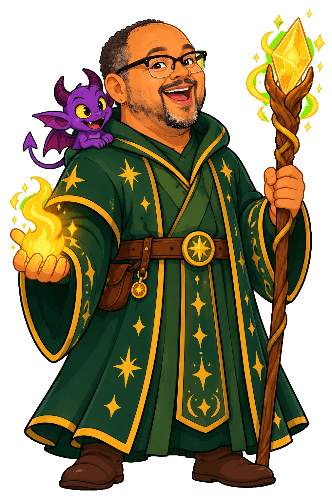
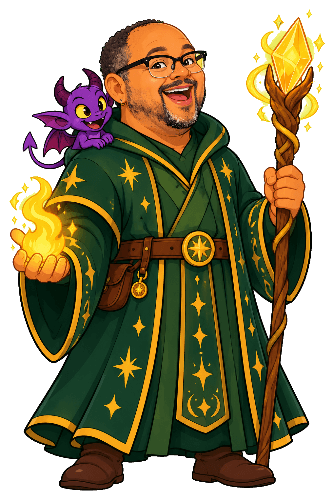
Art (item 049): light-green-only keying for Jason's green forms (LIGHT_GREEN, keyMode); his three good forms re-cut
keyGreen takes a mode: 'lightGreen' un-mixes green leans by brightness (none under 120,
full from 170), so the whisk streaks and the warlock's lime halo go and his forest
green stays solid. art:gen, --reprocess, art:alts and art:pick all cut by keyMode(id).

diff --git a/content/art/prompts.ts b/content/art/prompts.ts
@@ -48,6 +48,18 @@ const FIGHT_PROPS = FIGHTS.flatMap((f) => (f.props ?? []).map((p) => fightPropAr
 // Item 040's words: none is green.
 const BANK_040 = ['vet', 'chest', 'bin', 'rock', 'clock', 'stick', 'brush', 'truck', 'bath', 'plant', 'crib', 'key', 'yoyo'].map((w) => `pic_${w}`);
 const BANK_037 = ['jam', 'yak', 'vat', 'leg', 'peg', 'wig', 'bib', 'six', 'fin', 'kit', 'lip', 'cog', 'rod', 'gum', 'bun', 'hut', 'sub', 'nap', 'wag', 'jab', 'red', 'hex', 'jig', 'mix', 'jog', 'bop', 'dot', 'hum', 'yum', 'drum', 'crab', 'flag', 'sled', 'nest', 'tent', 'desk', 'belt', 'vest', 'gift', 'lamp', 'hand', 'mask', 'raft', 'plug', 'ant', 'milk', 'jump', 'spin', 'swim', 'flip', 'stomp', 'slam', 'grab', 'clap', 'bump', 'skip', 'twist', 'melt', 'lift', 'plop', 'flop', 'trap', 'blast', 'drip', 'ship', 'fish', 'duck', 'sock', 'moth', 'shed', 'chick', 'chop', 'kick', 'rush'].map((w) => `pic_${w}`);
+/**
+ * Sprites in dark green of their own (item 049): keying takes out only the
+ * bright, light screen green caught in them (between whisk wires, a lime glow)
+ * and leaves the dark green. Dada Jason's good forms and face cards.
+ */
+export const LIGHT_GREEN = new Set(GREEN_JASON);
+
+/** How `keyGreen` cuts an id, for `art:gen`, `art:alts` and `art:pick` alike. */
+export function keyMode(id: string): 'keep' | 'noGreen' | 'lightGreen' {
+  return NO_GREEN.has(id) ? 'noGreen' : LIGHT_GREEN.has(id) ? 'lightGreen' : 'keep';
+}
+
 export const NO_GREEN = new Set([...BANK_037, ...BANK_040,...FAMILY_ART, ...TIAMAT_ART, ...ITEM_025, 'char_julia_chef', 'face_julia_chef', 'prop_silver_sword', ...GLOWING_ITEMS,'item_bubble_bath', 'item_cleanup_van', 'char_rilla_evil', 'char_rilla_good', 'char_elsa_good', 'pic_mice', 'pic_net', 'prop_magic_circle', 'prop_ice_block', 'prop_word_machine', 'prop_machine_tile', ...ENDING_PROPS, ...SCAR_ART, ...FIGHT_PROPS]);
 
 /**
@@ -160,22 +172,22 @@ export const PICK_NOTES: Record<string, string> = {
   ...pickedBy032(),
   // Item 043: Matt's 040 pick, and the cyber Dada Matt redesign (brief 041_cyber_gauntlet_engineer).
   pic_key: "New word KEY (item 043, a long-vowel word for K: level 1, the hint sounds K then long E since item 048; rooms, warm-up, battle item). `current` is candidate 1, promoted by item 043: the boldest teeth; all three are nearly the same gold key. `0` is the painted placeholder.",
-  pic_yoyo: "New word YOYO (item 043, a long-vowel word for Y, printed YOYO: level 1, the hint sounds Y, long O, twice since item 048; rooms, warm-up, battle item). `current` is candidate 1, promoted by item 043: the biggest yo-yo, its string clearest. `0` is the painted placeholder. Watch: kept apart from TOP (both spinning toys).",
+  pic_yoyo: "New word YOYO (item 043, a long-vowel word for Y, printed YOYO: level 1, the hint sounds Y, long O, twice since item 048; rooms, warm-up, battle item). `current` is candidate 3, Matt's pick (item 049). 1 was item 043's: the biggest yo-yo, its string clearest. `0` is the painted placeholder. Watch: kept apart from TOP (both spinning toys).",
   pic_chest: "Item 040's word CHEST. `current` is candidate 3, Matt's pick (item 043). `0` is the painted placeholder.",
   char_dada_matt_cyber_good: "Cyber Dada Matt redrawn as a gauntlet engineer (item 041's brief round). `current` is candidate 10, Matt's pick (item 043, brief 041_cyber_gauntlet_engineer): the cyan power gauntlet projecting hologram tools, goggles up. 1 to 3 are item 025's hacker design; `0` is the painted placeholder.",
   char_dada_matt_cyber_evil: "Evil cyber Dada Matt in the same gauntlet-engineer look (item 043): the same build and gauntlet, glowing red. `current` is candidate 5, promoted by item 043: red gauntlet and hologram tools, goggles up, no green (4 has a teal shirt). 1 to 3 are item 025's hacker design (2 was Matt's item 032 pick); `0` is the painted placeholder.",
   // Item 046: Matt's picks from item 044's palette round (art_alts_045_palettes) and item 043's round (art_alts_044); each brief is now the look.
-  char_dada_jason_good: "Chef Dada Jason in forest green (item 044's palette round). `current` is candidate 2, Matt's pick (item 046, brief 045_jason_chef_trim): white chef's whites trimmed in forest green. 1 is the forest-green jacket; `0` is the red-neckerchief chef. Cut with green allowed (out of `NO_GREEN`).",
-  char_dada_jason_warrior_good: "Warrior Dada Jason in forest green (item 044's palette round). `current` is candidate 5, Matt's pick (item 046, brief 045_jason_warrior_trim): silver plate over a forest-green tunic, a green cape. 4 is forest-green armour; 3 was Matt's item 032 pick (red cape); `0` is the painted placeholder. Cut with green allowed (out of `NO_GREEN`).",
-  char_dada_jason_warlock_good: "Warlock Dada Jason in forest green (item 044's palette round). `current` is candidate 4, Matt's pick (item 046, brief 045_jason_warlock_green): forest-green robes, gold stars, an amber crystal and golden flames. 5 is purple robes with green trim; 1 was Matt's item 032 pick (purple); `0` is the painted placeholder. Cut with green allowed (out of `NO_GREEN`).",
+  char_dada_jason_good: "Chef Dada Jason in forest green (item 044's palette round). `current` is candidate 2, Matt's pick (item 046, brief 045_jason_chef_trim): white chef's whites trimmed in forest green. 1 is the forest-green jacket; `0` is the red-neckerchief chef. Cut light-green-only (`LIGHT_GREEN`, item 049).",
+  char_dada_jason_warrior_good: "Warrior Dada Jason in forest green (item 044's palette round). `current` is candidate 5, Matt's pick (item 046, brief 045_jason_warrior_trim): silver plate over a forest-green tunic, a green cape. 4 is forest-green armour; 3 was Matt's item 032 pick (red cape); `0` is the painted placeholder. Cut light-green-only (`LIGHT_GREEN`, item 049).",
+  char_dada_jason_warlock_good: "Warlock Dada Jason in forest green (item 044's palette round). `current` is candidate 4, Matt's pick (item 046, brief 045_jason_warlock_green): forest-green robes, gold stars, an amber crystal and golden flames. 5 is purple robes with green trim; 1 was Matt's item 032 pick (purple); `0` is the painted placeholder. Cut light-green-only (`LIGHT_GREEN`, item 049).",
   char_dada_matt_good: "Builder Dada Matt in blue (item 044's palette round). `current` is candidate 4, Matt's pick (item 046, brief 045_matt_builder_blue): deep-blue-and-steel armour. 5 is steel with blue trim; `0` (the orange armour it replaced) and 1 to 3 are the orange design.",
   char_dada_matt_lifter_good: "Weightlifter Dada Matt in blue (item 044's palette round). `current` is candidate 7, Matt's pick (item 046, brief 045_matt_lifter_blue): a royal-blue tee with a gold star, blue sneakers. 8 is a white tee with blue bands; 5 was Matt's item 032 pick (red tee); 1 to 3 are item 025's barbell design; `0` is the painted placeholder.",
   char_dada_jason_evil: "Evil chef Dada Jason redrawn without the moustache (item 043's round). `current` is candidate 1, Matt's pick (item 046, brief 044_evilchef_ladle): black-and-purple chef, a ladle of glowing purple sauce, his own goatee. 2 to 10 are the other props (whisk, rolling pin, cupcakes, cauldron); `0` is the moustached chef it replaced.",
   face_dada_matt_cyber: "Cyber Dada Matt's face card in the gauntlet-engineer look (item 043's round). `current` is candidate 4, Matt's pick (item 046, brief 044_cyberface_wrench, now its HAND prompt): the gauntlet raised with a hologram wrench, goggles up. 1 to 3 are item 025's hacker design.",
   // Item 046's face round (art_alts_046_faces): the five recoloured forms' cards redrawn from their new looks.
-  face_dada_jason: "Chef Dada Jason's face card in forest-green trim (item 046). `current` is candidate 2, promoted by item 046: the whisk away from his face (1 shows screen through a lens). `0` is the red-neckerchief card. Cut with green allowed (out of `NO_GREEN`).",
-  face_dada_jason_warrior: "Warrior Dada Jason's face card, silver over forest green (item 046). `current` is candidate 4, promoted by item 046: the most green tunic under the plate, like the full body (5's lens hangs over the screen). 2 is item 025's red-cape card; `0` is the painted placeholder. Cut with green allowed (out of `NO_GREEN`).",
-  face_dada_jason_warlock: "Warlock Dada Jason's face card in forest-green robes (item 046). `current` is candidate 5, promoted by item 046: the staff on his right as in the full body, the flame over his robe rather than the screen. 4 is as good; 2 is item 025's purple card; `0` is the painted placeholder. Cut with green allowed (out of `NO_GREEN`).",
+  face_dada_jason: "Chef Dada Jason's face card in forest-green trim (item 046). `current` is candidate 1, Matt's pick (item 049); the light-green keying clears the screen 046 saw through its lens. 2 was item 046's: the whisk away from his face. `0` is the red-neckerchief card. Cut light-green-only (`LIGHT_GREEN`, item 049).",
+  face_dada_jason_warrior: "Warrior Dada Jason's face card, silver over forest green (item 046). `current` is candidate 5, Matt's pick (item 049); its lens over the screen keys clear with the light-green keying. 4 was item 046's: the most green tunic under the plate, like the full body. 2 is item 025's red-cape card; `0` is the painted placeholder. Cut light-green-only (`LIGHT_GREEN`, item 049).",
+  face_dada_jason_warlock: "Warlock Dada Jason's face card in forest-green robes (item 046). `current` is candidate 5, promoted by item 046 and Matt's pick (item 049): the staff on his right as in the full body, the flame over his robe rather than the screen. 4 is as good; 2 is item 025's purple card; `0` is the painted placeholder. Cut light-green-only (`LIGHT_GREEN`, item 049).",
   face_dada_matt: "Builder Dada Matt's face card in blue armour (item 046). `current` is candidate 4, promoted by item 046: the grey hammer with gold studs, as in the full body. 1 to 3 are the orange design.",
   face_dada_matt_lifter: "Weightlifter Dada Matt's face card in the royal-blue tee (item 046). `current` is candidate 7, promoted by item 046: the gold star centred, as in the full body. 6 was Matt's item 032/034 pick (red tee); 1 to 3 are item 025's design; `0` is the painted placeholder.",
   // Item 037: the word bank's new words (picked by a review pass; Matt's picker is art_alts_037_words).

diff --git a/tools/art/generate.ts b/tools/art/generate.ts
@@ -31,7 +31,7 @@ import { chromium, type Page } from '@playwright/test';
 import sharp from 'sharp';
 
 import { ART_BY_ID } from '../../content/art/assets.js';
-import { ART_PROMPTS, BACKGROUND_STYLE, NO_GREEN, NOTES, REFS, SPRITE_STYLE, refFor } from '../../content/art/prompts.js';
+import { ART_PROMPTS, BACKGROUND_STYLE, keyMode, NOTES, REFS, SPRITE_STYLE, refFor } from '../../content/art/prompts.js';
 import { isMain } from '../voice/clips.js';
 import { keyGreen } from './chroma.js';
 import { isPlaceholder } from './placeholders.js';
@@ -194,9 +194,9 @@ export interface Processed {
   fringe: number;
 }
 
-export async function processImage(page: Page, png: Buffer, opts: { sprite: boolean; boxW: number; boxH: number; noGreen: boolean }): Promise<Processed> {
+export async function processImage(page: Page, png: Buffer, opts: { sprite: boolean; boxW: number; boxH: number; mode: 'keep' | 'noGreen' | 'lightGreen' }): Promise<Processed> {
   return page.evaluate(
-    async ({ src, sprite, boxW, boxH, noGreen }) => {
+    async ({ src, sprite, boxW, boxH, mode }) => {
       const img = new Image();
       img.src = src;
       await img.decode();
@@ -213,7 +213,7 @@ export async function processImage(page: Page, png: Buffer, opts: { sprite: bool
       let fringe = 0;
       if (sprite) {
         const data = fc.getImageData(0, 0, sw, sh);
-        fringe = (window as unknown as { keyGreen: (p: Uint8ClampedArray, w: number, h: number, ng: boolean) => { fringe: number } }).keyGreen(data.data, sw, sh, noGreen).fringe;
+        fringe = (window as unknown as { keyGreen: (p: Uint8ClampedArray, w: number, h: number, m: string) => { fringe: number } }).keyGreen(data.data, sw, sh, mode).fringe;
         fc.putImageData(data, 0, 0);
         let x0 = sw;
         let y0 = sh;
@@ -297,7 +297,7 @@ export async function gamePng(page: Page, id: string, original: Buffer): Promise
   const a = ART_BY_ID[id]!;
   const sprite = !isBackground(id);
   const scale = sprite ? SPRITE_SCALE : 1;
-  const p = await processImage(page, original, { sprite, boxW: a.w * scale, boxH: a.h * scale, noGreen: NO_GREEN.has(id) });
+  const p = await processImage(page, original, { sprite, boxW: a.w * scale, boxH: a.h * scale, mode: keyMode(id) });
   return { png: await shrinkPng(Buffer.from(p.url.slice(p.url.indexOf(',') + 1), 'base64')), p };
 }
 

diff --git a/tools/art/chroma.ts b/tools/art/chroma.ts
@@ -10,11 +10,14 @@
  * Pixels within two rings of the background get a soft alpha from their
  * distance to the key, are un-mixed from it, and lose any green spill.
  * `noGreen` (a subject with no green in it) un-mixes every green-leaning pixel.
+ * `lightGreen` (a subject in dark green, item 049) un-mixes only the bright,
+ * light greens of the screen showing through (between whisk wires, a lime glow),
+ * by how bright they are, and leaves dark greens alone.
  *
  * Returns `fringe`: visible pixels touching transparency that are still
  * clearly green, plus visible near-key pixels. 0 is clean.
  */
-export function keyGreen(px: Uint8ClampedArray, w: number, h: number, noGreen = false): { fringe: number; cleared: number } {
+export function keyGreen(px: Uint8ClampedArray, w: number, h: number, mode: 'keep' | 'noGreen' | 'lightGreen' = 'keep'): { fringe: number; cleared: number } {
   const n = w * h;
   const rs: number[] = [];
   const gs: number[] = [];
@@ -116,14 +119,21 @@ export function keyGreen(px: Uint8ClampedArray, w: number, h: number, noGreen = 
 
   // A subject with no green of its own: every green lean is screen showing
   // through (a cage's faint back bars), so un-mix it by how much it leans.
-  if (noGreen) {
+  // A subject in dark green: only a light green is screen, weighted from none
+  // at green LIGHT_LO to full at LIGHT_HI, so his forest green stays solid.
+  if (mode !== 'keep') {
     const keyLean = kg - Math.max(kr, kb);
+    // Measured on Jason's six images: his greens are under 120, screen leaks 160 up.
+    const LIGHT_LO = 120;
+    const LIGHT_HI = 170;
     for (let i = 0; i < n; i++) {
       const o = i * 4;
       if (!px[o + 3]) continue;
       const lean = px[o + 1]! - Math.max(px[o]!, px[o + 2]!);
       if (lean <= 0) continue;
-      const f = Math.min(1, lean / keyLean);
+      const light = mode === 'lightGreen' ? Math.max(0, Math.min(1, (px[o + 1]! - LIGHT_LO) / (LIGHT_HI - LIGHT_LO))) : 1;
+      if (!light) continue;
+      const f = Math.min(1, lean / keyLean) * light;
       if (f > 0.95) {
         px[o + 3] = 0;
         continue;

diff --git a/tests/unit/art.test.ts b/tests/unit/art.test.ts
@@ -5,7 +5,7 @@ import path from 'node:path';
 import { test } from 'node:test';
 
 import { ART_BY_ID } from '../../content/art/assets.js';
-import { ART_PROMPTS, NOTES, SPRITE_STYLE } from '../../content/art/prompts.js';
+import { ART_PROMPTS, keyMode, NOTES, SPRITE_STYLE } from '../../content/art/prompts.js';
 import { readBrief } from '../../tools/art/alts.js';
 import { keyGreen } from '../../tools/art/chroma.js';
 import { codexPrompt } from '../../tools/art/generate.js';
@@ -73,10 +73,30 @@ test('keyGreen keeps green inside the outline (a leaf is not the screen)', () =>
 
 test('keyGreen with noGreen un-mixes green seen through a subject', () => {
   const px = picture(20, 20, [100, 180, 100]);
-  keyGreen(px, 20, 20, true);
+  keyGreen(px, 20, 20, 'noGreen');
   const o = (10 * 20 + 10) * 4;
   assert.ok(px[o + 1]! <= Math.max(px[o]!, px[o + 2]!), 'no green lean left');
   assert.ok(px[o + 3]! < 255, 'part-transparent where the screen showed through');
+});
+
+test('keyGreen with lightGreen keeps dark green and un-mixes light screen green (item 049)', () => {
+  const dark = picture(20, 20, [22, 79, 49]);
+  keyGreen(dark, 20, 20, 'lightGreen');
+  const o = (10 * 20 + 10) * 4;
+  assert.deepEqual([...dark.subarray(o, o + 4)], [22, 79, 49, 255], 'forest green stays solid');
+  const light = picture(20, 20, [150, 230, 120]);
+  keyGreen(light, 20, 20, 'lightGreen');
+  assert.ok(light[o + 1]! <= Math.max(light[o]!, light[o + 2]!), 'no green lean left');
+  assert.ok(light[o + 3]! < 255, 'part-transparent where the screen showed through');
+});
+
+test("Jason's green forms cut light-green-only, for art:gen, art:alts and art:pick alike (item 049)", () => {
+  for (const c of ['dada_jason', 'dada_jason_warrior', 'dada_jason_warlock']) {
+    assert.equal(keyMode(`char_${c}_good`), 'lightGreen');
+    assert.equal(keyMode(`face_${c}`), 'lightGreen');
+    assert.equal(keyMode(`char_${c}_evil`), 'noGreen');
+  }
+  assert.equal(keyMode('pic_frog'), 'keep');
 });
 
 test('keyGreen removes green spill from a soft edge', () => {

diff --git a/README.md b/README.md
@@ -603,9 +603,17 @@ git-ignored, so a round may run as a **readonly** item beside other work. Promot
   046 carved Jason's three good forms and their face cards out (`GREEN_JASON`); his evil
   forms stay keyed. A green candidate must be out of the set before `art:pick` and
   before `art:alts` cuts the sheet (item 044's per-run sheets
-  `scratch/art_alts_045_palettes_jason_*.png` still show the washed-out cut). Without
-  the keying, light green screen caught inside the subject stays (between whisk wires,
-  in a glow): item 046's chef and warlock carry a little of it.
+  `scratch/art_alts_045_palettes_jason_*.png` still show the washed-out cut). Item 049
+  keys them light-green-only instead (`LIGHT_GREEN`, `keyMode` in
+  `content/art/prompts.ts`, `'lightGreen'` in `tools/art/chroma.ts`): green-leaning
+  pixels are un-mixed by how bright their green is, none under 120 and fully from 170,
+  so the screen between whisk wires and a lime glow go while his forest green (measured
+  under 120) stays solid. `art:gen`, `--reprocess`, `art:alts` and `art:pick` all take
+  the mode from `keyMode`. A family form that wears dark green goes in `LIGHT_GREEN`,
+  not `NO_GREEN`.
+- A script in `scratch/` that imports `../tools/…` gets the **main checkout's** copy, not
+  the worktree's: `scratch/` is a junction and Node resolves the real path (item 049).
+  Import by absolute path (`pathToFileURL(path.resolve('tools/…'))`) from the worktree root.
 - `npm test` empties `test-results/` as it starts (Playwright's output folder): a
   script or log kept there by a run beside it is deleted. Keep logs in `scratch/`.
 - A new `prop_word_machine` means refitting `WINDOW` / `PANEL` in
